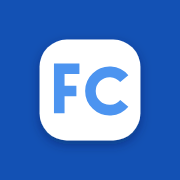
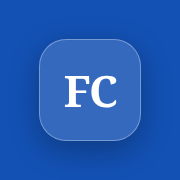
Abertura e ícones no estilo da tela de login (degradê, arcos, quadrado de vidro, FC em serifa)
Claude-Session: https://claude.ai/code/session_013re2DGGsgzQMUKqLHbPw1H

Changed region(s): [[0.1944, 0.1944, 0.8056, 0.8056]]

diff --git a/demo/index.html b/demo/index.html
@@ -40,7 +40,7 @@ window.addEventListener('appinstalled',function(){window.__fcInstallEvt=null;try
 // caso a página NUNCA recarrega sozinha, então sem isso ela ficava presa na versão antiga até
 // fechar e abrir o app de verdade), e (3) a cada 5 minutos enquanto ficar aberta, pro caso raro
 // de o próprio celular manter a aba viva em segundo plano por muito tempo sem trocar de app.
-window.__FC_VERSION=1795233188;
+window.__FC_VERSION=1795233392;
 (function(){
   function checarVersaoNova(){
     try{
@@ -346,34 +346,38 @@ select.inp{cursor:pointer}
 .menu-drawer-footer{border-top:1px solid var(--gray-100)}
 </style>
 <style id="fc-splash-css">
-/* Tela de abertura (mesmo visual do ícone do app: fundo azul clarinho, quadrado branco e FC azul clarinho). Aparece na hora,
-   antes do app carregar, e some com um fade quando a primeira tela está pronta. */
-#fc-splash{position:fixed;inset:0;z-index:99999;background:#1351B4;display:flex;align-items:center;justify-content:center;flex-direction:column;overflow:hidden;transition:opacity .45s ease,transform .45s ease,visibility 0s linear .45s}
+/* Tela de abertura: mesmo visual da tela de login (degradê azul, arcos, quadrado de vidro com FC em serifa, nome e subtítulo).
+   Aparece na hora, antes do app carregar, e some com um fade quando a primeira tela está pronta. */
+#fc-splash{position:fixed;inset:0;z-index:99999;background:linear-gradient(160deg,#0D1B4B 0%,#1351B4 55%,#1A6FD4 100%);display:flex;align-items:center;justify-content:center;flex-direction:column;overflow:hidden;text-align:center;transition:opacity .45s ease,transform .45s ease,visibility 0s linear .45s}
 #fc-splash.fim{opacity:0;transform:scale(1.04);visibility:hidden;pointer-events:none}
-#fc-splash .glow{position:absolute;width:120vmax;height:120vmax;left:50%;top:50%;margin:-60vmax 0 0 -60vmax;border-radius:50%;background:radial-gradient(circle,rgba(120,170,255,.38) 0%,rgba(120,170,255,0) 52%);opacity:0;animation:fcsGlow 1.4s .15s ease-out forwards}
-#fc-splash .sq{position:relative;width:min(34vmin,168px);height:min(34vmin,168px);border-radius:27%;background:#fff;box-shadow:0 22px 50px -14px rgba(4,20,64,.6),0 4px 12px -3px rgba(4,20,64,.3);display:grid;place-items:center;overflow:hidden;animation:fcsPop .75s cubic-bezier(.2,1.25,.4,1) both}
-#fc-splash .sq svg{width:100%;height:100%;display:block}
-#fc-splash .f{opacity:0;stroke-dasharray:100;stroke-dashoffset:100;animation:fcsDraw .55s .45s cubic-bezier(.5,0,.2,1) forwards,fcsShow .01s .45s forwards}
-#fc-splash .c{opacity:0;stroke-dasharray:130;stroke-dashoffset:130;animation:fcsDraw .75s .8s cubic-bezier(.5,0,.2,1) forwards,fcsShow .01s .8s forwards}
-@keyframes fcsShow{to{opacity:1}}
-#fc-splash .shine{position:absolute;top:-20%;bottom:-20%;width:38%;left:-60%;background:linear-gradient(100deg,rgba(255,255,255,0),rgba(190,214,250,.65),rgba(255,255,255,0));transform:skewX(-14deg);animation:fcsShine .9s 1.45s ease-in-out forwards}
-#fc-splash .nome{margin-top:26px;font:700 15px/1 -apple-system,BlinkMacSystemFont,'Segoe UI',Roboto,system-ui,sans-serif;letter-spacing:.14em;text-transform:uppercase;color:rgba(255,255,255,.92);opacity:0;animation:fcsUp .6s 1.15s ease-out forwards}
-#fc-splash .pts{margin-top:16px;display:flex;gap:7px;opacity:0;animation:fcsUp .5s 1.4s ease-out forwards}
-#fc-splash .pts i{width:7px;height:7px;border-radius:50%;background:#fff;animation:fcsDot 1.1s ease-in-out infinite}
+#fc-splash .arc{position:absolute;border-radius:50%;border:1px solid rgba(255,255,255,.06);opacity:0;animation:fcsArc 1.2s ease-out forwards}
+#fc-splash .a1{width:320px;height:320px;top:-100px;right:-100px}
+#fc-splash .a2{width:220px;height:220px;top:-60px;right:-60px;animation-delay:.15s}
+#fc-splash .a3{width:200px;height:200px;bottom:-80px;left:-80px;animation-delay:.3s}
+#fc-splash .a4{width:420px;height:420px;bottom:-190px;right:-150px;animation-delay:.2s}
+#fc-splash .sq{position:relative;width:104px;height:104px;border-radius:27px;background:rgba(255,255,255,.13);border:1.5px solid rgba(255,255,255,.28);box-shadow:0 8px 32px rgba(0,0,0,.25);display:flex;align-items:center;justify-content:center;margin-bottom:20px;overflow:hidden;animation:fcsPop .8s cubic-bezier(.2,1.2,.4,1) both}
+#fc-splash .fc{font-family:'Playfair Display',Georgia,serif;font-size:46px;font-weight:900;color:#fff;letter-spacing:-2px;line-height:1;display:flex}
+#fc-splash .fc b{font-weight:inherit;display:inline-block;opacity:0;animation:fcsLetter .55s cubic-bezier(.2,.9,.3,1) forwards}
+#fc-splash .fc b:nth-child(1){animation-delay:.5s}#fc-splash .fc b:nth-child(2){animation-delay:.72s}
+#fc-splash .shine{position:absolute;top:-20%;bottom:-20%;width:36%;left:-60%;background:linear-gradient(100deg,rgba(255,255,255,0),rgba(255,255,255,.28),rgba(255,255,255,0));transform:skewX(-14deg);animation:fcsShine .9s 1.35s ease-in-out forwards}
+#fc-splash .nome{font:800 32px/1.1 'Segoe UI',system-ui,-apple-system,Roboto,sans-serif;color:#fff;letter-spacing:-.02em;opacity:0;animation:fcsUp .6s 1s ease-out forwards}
+#fc-splash .sub{font:400 12px/1.3 'Segoe UI',system-ui,-apple-system,Roboto,sans-serif;color:rgba(255,255,255,.5);margin-top:7px;letter-spacing:.14em;text-transform:uppercase;opacity:0;animation:fcsUp .6s 1.2s ease-out forwards}
+#fc-splash .pts{margin-top:26px;display:flex;gap:7px;opacity:0;animation:fcsUp .5s 1.45s ease-out forwards}
+#fc-splash .pts i{width:6px;height:6px;border-radius:50%;background:#fff;animation:fcsDot 1.1s ease-in-out infinite}
 #fc-splash .pts i:nth-child(2){animation-delay:.16s}#fc-splash .pts i:nth-child(3){animation-delay:.32s}
-@keyframes fcsPop{0%{opacity:0;transform:translateY(14px) scale(.55)}100%{opacity:1;transform:none}}
-@keyframes fcsDraw{to{stroke-dashoffset:0}}
-@keyframes fcsGlow{to{opacity:1}}
+@keyframes fcsPop{0%{opacity:0;transform:translateY(14px) scale(.6)}100%{opacity:1;transform:none}}
+@keyframes fcsLetter{from{opacity:0;transform:translateY(12px) scale(.9)}to{opacity:1;transform:none}}
+@keyframes fcsArc{from{opacity:0;transform:scale(.85)}to{opacity:1;transform:none}}
 @keyframes fcsShine{to{left:130%}}
 @keyframes fcsUp{from{opacity:0;transform:translateY(8px)}to{opacity:1;transform:none}}
-@keyframes fcsDot{0%,100%{opacity:.35;transform:scale(.8)}50%{opacity:1;transform:scale(1.15)}}
-@media (prefers-reduced-motion:reduce){#fc-splash *{animation:none!important}#fc-splash .f,#fc-splash .c{stroke-dashoffset:0;opacity:1}#fc-splash .nome,#fc-splash .pts,#fc-splash .glow{opacity:1}#fc-splash{transition:opacity .2s}}
+@keyframes fcsDot{0%,100%{opacity:.3;transform:scale(.8)}50%{opacity:.9;transform:scale(1.15)}}
+@media (prefers-reduced-motion:reduce){#fc-splash *{animation:none!important}#fc-splash .fc b,#fc-splash .nome,#fc-splash .sub,#fc-splash .pts,#fc-splash .arc{opacity:1}#fc-splash{transition:opacity .2s}}
 </style>
 </head>
 <body>
-<div id="fc-splash" aria-hidden="true"><div class="glow"></div>
-  <div class="sq"><svg viewBox="0 0 100 100" fill="none" stroke="#4C94F0" stroke-width="10.5" stroke-linejoin="miter"><g transform="translate(-2.5,0)"><path class="f" pathLength="100" d="M22 73 V29 H42 M22 51 H39"/><path class="c" pathLength="130" d="M86.5 38.8 A19 19 0 1 0 86.5 63.2"/></g></svg><span class="shine"></span></div>
-  <div class="nome">FarmaControl</div><div class="pts"><i></i><i></i><i></i></div></div>
+<div id="fc-splash" aria-hidden="true"><i class="arc a1"></i><i class="arc a2"></i><i class="arc a3"></i><i class="arc a4"></i>
+  <div class="sq"><span class="fc"><b>F</b><b>C</b></span><span class="shine"></span></div>
+  <div class="nome">FarmaControl</div><div class="sub">Sistema de Controle Farmacêutico</div><div class="pts"><i></i><i></i><i></i></div></div>
 <script>
 // Some quando a primeira tela do app aparece (mínimo ~1,6 s para a animação terminar; nunca prende mais que 9 s).
 (function(){

diff --git a/index.html b/index.html
@@ -39,7 +39,7 @@ window.addEventListener('appinstalled',function(){window.__fcInstallEvt=null;try
 // caso a página NUNCA recarrega sozinha, então sem isso ela ficava presa na versão antiga até
 // fechar e abrir o app de verdade), e (3) a cada 5 minutos enquanto ficar aberta, pro caso raro
 // de o próprio celular manter a aba viva em segundo plano por muito tempo sem trocar de app.
-window.__FC_VERSION=1795233188;
+window.__FC_VERSION=1795233392;
 (function(){
   function checarVersaoNova(){
     try{
@@ -346,34 +346,38 @@ select.inp{cursor:pointer}
 .menu-drawer-footer{border-top:1px solid var(--gray-100)}
 </style>
 <style id="fc-splash-css">
-/* Tela de abertura (mesmo visual do ícone do app: fundo azul clarinho, quadrado branco e FC azul clarinho). Aparece na hora,
-   antes do app carregar, e some com um fade quando a primeira tela está pronta. */
-#fc-splash{position:fixed;inset:0;z-index:99999;background:#1351B4;display:flex;align-items:center;justify-content:center;flex-direction:column;overflow:hidden;transition:opacity .45s ease,transform .45s ease,visibility 0s linear .45s}
+/* Tela de abertura: mesmo visual da tela de login (degradê azul, arcos, quadrado de vidro com FC em serifa, nome e subtítulo).
+   Aparece na hora, antes do app carregar, e some com um fade quando a primeira tela está pronta. */
+#fc-splash{position:fixed;inset:0;z-index:99999;background:linear-gradient(160deg,#0D1B4B 0%,#1351B4 55%,#1A6FD4 100%);display:flex;align-items:center;justify-content:center;flex-direction:column;overflow:hidden;text-align:center;transition:opacity .45s ease,transform .45s ease,visibility 0s linear .45s}
 #fc-splash.fim{opacity:0;transform:scale(1.04);visibility:hidden;pointer-events:none}
-#fc-splash .glow{position:absolute;width:120vmax;height:120vmax;left:50%;top:50%;margin:-60vmax 0 0 -60vmax;border-radius:50%;background:radial-gradient(circle,rgba(120,170,255,.38) 0%,rgba(120,170,255,0) 52%);opacity:0;animation:fcsGlow 1.4s .15s ease-out forwards}
-#fc-splash .sq{position:relative;width:min(34vmin,168px);height:min(34vmin,168px);border-radius:27%;background:#fff;box-shadow:0 22px 50px -14px rgba(4,20,64,.6),0 4px 12px -3px rgba(4,20,64,.3);display:grid;place-items:center;overflow:hidden;animation:fcsPop .75s cubic-bezier(.2,1.25,.4,1) both}
-#fc-splash .sq svg{width:100%;height:100%;display:block}
-#fc-splash .f{opacity:0;stroke-dasharray:100;stroke-dashoffset:100;animation:fcsDraw .55s .45s cubic-bezier(.5,0,.2,1) forwards,fcsShow .01s .45s forwards}
-#fc-splash .c{opacity:0;stroke-dasharray:130;stroke-dashoffset:130;animation:fcsDraw .75s .8s cubic-bezier(.5,0,.2,1) forwards,fcsShow .01s .8s forwards}
-@keyframes fcsShow{to{opacity:1}}
-#fc-splash .shine{position:absolute;top:-20%;bottom:-20%;width:38%;left:-60%;background:linear-gradient(100deg,rgba(255,255,255,0),rgba(190,214,250,.65),rgba(255,255,255,0));transform:skewX(-14deg);animation:fcsShine .9s 1.45s ease-in-out forwards}
-#fc-splash .nome{margin-top:26px;font:700 15px/1 -apple-system,BlinkMacSystemFont,'Segoe UI',Roboto,system-ui,sans-serif;letter-spacing:.14em;text-transform:uppercase;color:rgba(255,255,255,.92);opacity:0;animation:fcsUp .6s 1.15s ease-out forwards}
-#fc-splash .pts{margin-top:16px;display:flex;gap:7px;opacity:0;animation:fcsUp .5s 1.4s ease-out forwards}
-#fc-splash .pts i{width:7px;height:7px;border-radius:50%;background:#fff;animation:fcsDot 1.1s ease-in-out infinite}
+#fc-splash .arc{position:absolute;border-radius:50%;border:1px solid rgba(255,255,255,.06);opacity:0;animation:fcsArc 1.2s ease-out forwards}
+#fc-splash .a1{width:320px;height:320px;top:-100px;right:-100px}
+#fc-splash .a2{width:220px;height:220px;top:-60px;right:-60px;animation-delay:.15s}
+#fc-splash .a3{width:200px;height:200px;bottom:-80px;left:-80px;animation-delay:.3s}
+#fc-splash .a4{width:420px;height:420px;bottom:-190px;right:-150px;animation-delay:.2s}
+#fc-splash .sq{position:relative;width:104px;height:104px;border-radius:27px;background:rgba(255,255,255,.13);border:1.5px solid rgba(255,255,255,.28);box-shadow:0 8px 32px rgba(0,0,0,.25);display:flex;align-items:center;justify-content:center;margin-bottom:20px;overflow:hidden;animation:fcsPop .8s cubic-bezier(.2,1.2,.4,1) both}
+#fc-splash .fc{font-family:'Playfair Display',Georgia,serif;font-size:46px;font-weight:900;color:#fff;letter-spacing:-2px;line-height:1;display:flex}
+#fc-splash .fc b{font-weight:inherit;display:inline-block;opacity:0;animation:fcsLetter .55s cubic-bezier(.2,.9,.3,1) forwards}
+#fc-splash .fc b:nth-child(1){animation-delay:.5s}#fc-splash .fc b:nth-child(2){animation-delay:.72s}
+#fc-splash .shine{position:absolute;top:-20%;bottom:-20%;width:36%;left:-60%;background:linear-gradient(100deg,rgba(255,255,255,0),rgba(255,255,255,.28),rgba(255,255,255,0));transform:skewX(-14deg);animation:fcsShine .9s 1.35s ease-in-out forwards}
+#fc-splash .nome{font:800 32px/1.1 'Segoe UI',system-ui,-apple-system,Roboto,sans-serif;color:#fff;letter-spacing:-.02em;opacity:0;animation:fcsUp .6s 1s ease-out forwards}
+#fc-splash .sub{font:400 12px/1.3 'Segoe UI',system-ui,-apple-system,Roboto,sans-serif;color:rgba(255,255,255,.5);margin-top:7px;letter-spacing:.14em;text-transform:uppercase;opacity:0;animation:fcsUp .6s 1.2s ease-out forwards}
+#fc-splash .pts{margin-top:26px;display:flex;gap:7px;opacity:0;animation:fcsUp .5s 1.45s ease-out forwards}
+#fc-splash .pts i{width:6px;height:6px;border-radius:50%;background:#fff;animation:fcsDot 1.1s ease-in-out infinite}
 #fc-splash .pts i:nth-child(2){animation-delay:.16s}#fc-splash .pts i:nth-child(3){animation-delay:.32s}
-@keyframes fcsPop{0%{opacity:0;transform:translateY(14px) scale(.55)}100%{opacity:1;transform:none}}
-@keyframes fcsDraw{to{stroke-dashoffset:0}}
-@keyframes fcsGlow{to{opacity:1}}
+@keyframes fcsPop{0%{opacity:0;transform:translateY(14px) scale(.6)}100%{opacity:1;transform:none}}
+@keyframes fcsLetter{from{opacity:0;transform:translateY(12px) scale(.9)}to{opacity:1;transform:none}}
+@keyframes fcsArc{from{opacity:0;transform:scale(.85)}to{opacity:1;transform:none}}
 @keyframes fcsShine{to{left:130%}}
 @keyframes fcsUp{from{opacity:0;transform:translateY(8px)}to{opacity:1;transform:none}}
-@keyframes fcsDot{0%,100%{opacity:.35;transform:scale(.8)}50%{opacity:1;transform:scale(1.15)}}
-@media (prefers-reduced-motion:reduce){#fc-splash *{animation:none!important}#fc-splash .f,#fc-splash .c{stroke-dashoffset:0;opacity:1}#fc-splash .nome,#fc-splash .pts,#fc-splash .glow{opacity:1}#fc-splash{transition:opacity .2s}}
+@keyframes fcsDot{0%,100%{opacity:.3;transform:scale(.8)}50%{opacity:.9;transform:scale(1.15)}}
+@media (prefers-reduced-motion:reduce){#fc-splash *{animation:none!important}#fc-splash .fc b,#fc-splash .nome,#fc-splash .sub,#fc-splash .pts,#fc-splash .arc{opacity:1}#fc-splash{transition:opacity .2s}}
 </style>
 </head>
 <body>
-<div id="fc-splash" aria-hidden="true"><div class="glow"></div>
-  <div class="sq"><svg viewBox="0 0 100 100" fill="none" stroke="#4C94F0" stroke-width="10.5" stroke-linejoin="miter"><g transform="translate(-2.5,0)"><path class="f" pathLength="100" d="M22 73 V29 H42 M22 51 H39"/><path class="c" pathLength="130" d="M86.5 38.8 A19 19 0 1 0 86.5 63.2"/></g></svg><span class="shine"></span></div>
-  <div class="nome">FarmaControl</div><div class="pts"><i></i><i></i><i></i></div></div>
+<div id="fc-splash" aria-hidden="true"><i class="arc a1"></i><i class="arc a2"></i><i class="arc a3"></i><i class="arc a4"></i>
+  <div class="sq"><span class="fc"><b>F</b><b>C</b></span><span class="shine"></span></div>
+  <div class="nome">FarmaControl</div><div class="sub">Sistema de Controle Farmacêutico</div><div class="pts"><i></i><i></i><i></i></div></div>
 <script>
 // Some quando a primeira tela do app aparece (mínimo ~1,6 s para a animação terminar; nunca prende mais que 9 s).
 (function(){
